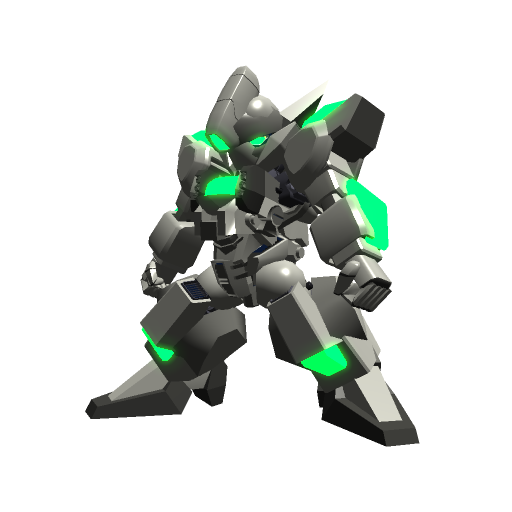
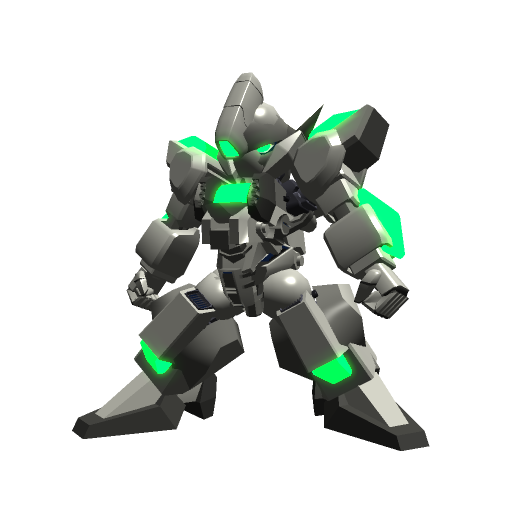
ストレートパンチを修正

Changed region(s): [[0.125, 0.125, 0.8438, 0.9062]]

diff --git a/src/game-object/armdozer/shin-breaver/view/player-shin-braver-view.js b/src/game-object/armdozer/shin-breaver/view/player-shin-braver-view.js
@@ -11,6 +11,7 @@ import {
   shinBraverSPAttack,
   } from "../mesh/sp-attack";
 import {shinBraverSPCharge} from "../mesh/sp-charge";
+import {shinBraverSPToStand} from "../mesh/sp-to-stand";
 
 /** プレイヤー側シンブレイバーのビュー */
 export class PlayerShinBraverView implements ShinBraverView {
@@ -18,12 +19,14 @@ export class PlayerShinBraverView implements ShinBraverView {
   _stand: ArmdozerMesh;
   _spCharge: ArmdozerMesh;
   _spAttack: ArmdozerMesh;
+  _spToStand: ArmdozerMesh;
 
   constructor(resources: Resources) {
     this._group = new THREE.Group();
     this._stand = shinBraverStand(resources);
     this._spCharge = shinBraverSPCharge(resources);
     this._spAttack = shinBraverSPAttack(resources);
+    this._spToStand = shinBraverSPToStand(resources);
 
     this._getAllMeshes().forEach(v => {
       this._group.add(v.getObject3D());
@@ -62,6 +65,7 @@ export class PlayerShinBraverView implements ShinBraverView {
       this._stand,
       this._spCharge,
       this._spAttack,
+      this._spToStand,
     ];
   }
 
@@ -83,6 +87,8 @@ export class PlayerShinBraverView implements ShinBraverView {
         return this._spCharge;
       case 'SP_ATTACK':
         return this._spAttack;
+      case 'SP_TO_STAND':
+        return this._spToStand;
       default:
         return this._stand;
     }

diff --git a/src/resource/texture.js b/src/resource/texture.js
@@ -21,6 +21,7 @@ export const TEXTURE_IDS = {
   SHIN_BRAVER_STAND: 'SHIN_BRAVER_STAND',
   SHIN_BRAVER_SP_CHARGE: 'SHIN_BRAVER_SP_CHARGE',
   SHIN_BRAVER_SP_ATTACK: 'SHIN_BRAVER_SP_ATTACK',
+  SHIN_BRAVER_SP_TO_STAND: 'SHIN_BRAVER_SP_TO_STAND',
   NEO_LANDOZER_STAND: 'NEO_LANDOZER_STAND',
   NEO_LANDOZER_KNOCK_BACK: 'NEO_LANDOZER_KNOCK_BACK',
   BLUE_SKY_FRONT: 'BLUE_SKY_FRONT',
@@ -46,6 +47,10 @@ export const TEXTURE_CONFIGS: TextureConfig[] = [
   {
     id: TEXTURE_IDS.SHIN_BRAVER_SP_ATTACK,
     path: 'armdozer/shin-braver/sp-attack.png'
+  },
+  {
+    id: TEXTURE_IDS.SHIN_BRAVER_SP_TO_STAND,
+    path: 'armdozer/shin-braver/sp-to-stand.png'
   },
   // ネオランドーザ関連
   {

diff --git a/src/game-object/armdozer/shin-breaver/animation/sp-to-stand.js b/src/game-object/armdozer/shin-breaver/animation/sp-to-stand.js
@@ -7,12 +7,17 @@ import {tween} from "../../../../animation/tween";
 
 /** スチレートパンチから立ちポーズに移行 */
 export function spToStand(model: ShinBraverModel): Animate {
-  return tween(model.animation, t => t
-    .to({frame: 0}, 500)
+  return process(() => {
+    model.animation.type = 'SP_TO_STAND';
+    model.animation.frame = 0;
+  }).chain(
+    tween(model.animation, t => t
+      .to({frame: 1}, 500)
+    )
   ).chain(
     process(() => {
       model.animation.type = 'STAND';
       model.animation.frame = 0;
     })
-  )
+  );
 }

diff --git a/src/game-object/armdozer/shin-breaver/mesh/sp-to-stand.js b/src/game-object/armdozer/shin-breaver/mesh/sp-to-stand.js
@@ -9,10 +9,10 @@ export const MESH_WIDTH = 320;
 export const MESH_HEIGHT = 320;
 export const MAX_ANIMATION = 8;
 
-/** ストレートパンチため */
-export function shinBraverSPCharge(resources: Resources): ArmdozerMesh {
+/** ストレートパンチ -> 立ち */
+export function shinBraverSPToStand(resources: Resources): ArmdozerMesh {
   const ret = new HorizontalAnimationMesh({
-    id: TEXTURE_IDS.SHIN_BRAVER_SP_CHARGE,
+    id: TEXTURE_IDS.SHIN_BRAVER_SP_TO_STAND,
     maxAnimation: MAX_ANIMATION,
     resources: resources,
     width: MESH_WIDTH,

diff --git a/src/game-object/armdozer/shin-breaver/animation/straight-punch.js b/src/game-object/armdozer/shin-breaver/animation/straight-punch.js
@@ -24,14 +24,7 @@ export function straightPunch(model: ShinBraverModel): Animate {
     })
   ).chain(
     tween(model.animation, t => t
-      .to({frame: 1}, 250)
-      .repeat(1)
-      .yoyo(true)
+      .to({frame: 1}, 500)
     )
-  ).chain(
-    process(() => {
-      model.animation.type = 'SP_CHARGE';
-      model.animation.frame = 1;
-    })
-  )
+  );
 }

diff --git a/src/game-object/armdozer/shin-breaver/model/animation-type.js b/src/game-object/armdozer/shin-breaver/model/animation-type.js
@@ -1,4 +1,4 @@
 // @flow
 
 /** アニメーションタイプ */
-export type AnimationType = 'STAND' | 'STRAIGHT_PUNCH' | 'SP_CHARGE' | 'SP_ATTACK' | 'SP_TO_STAND';
+export type AnimationType = 'STAND' | 'SP_CHARGE' | 'SP_ATTACK' | 'SP_TO_STAND';
